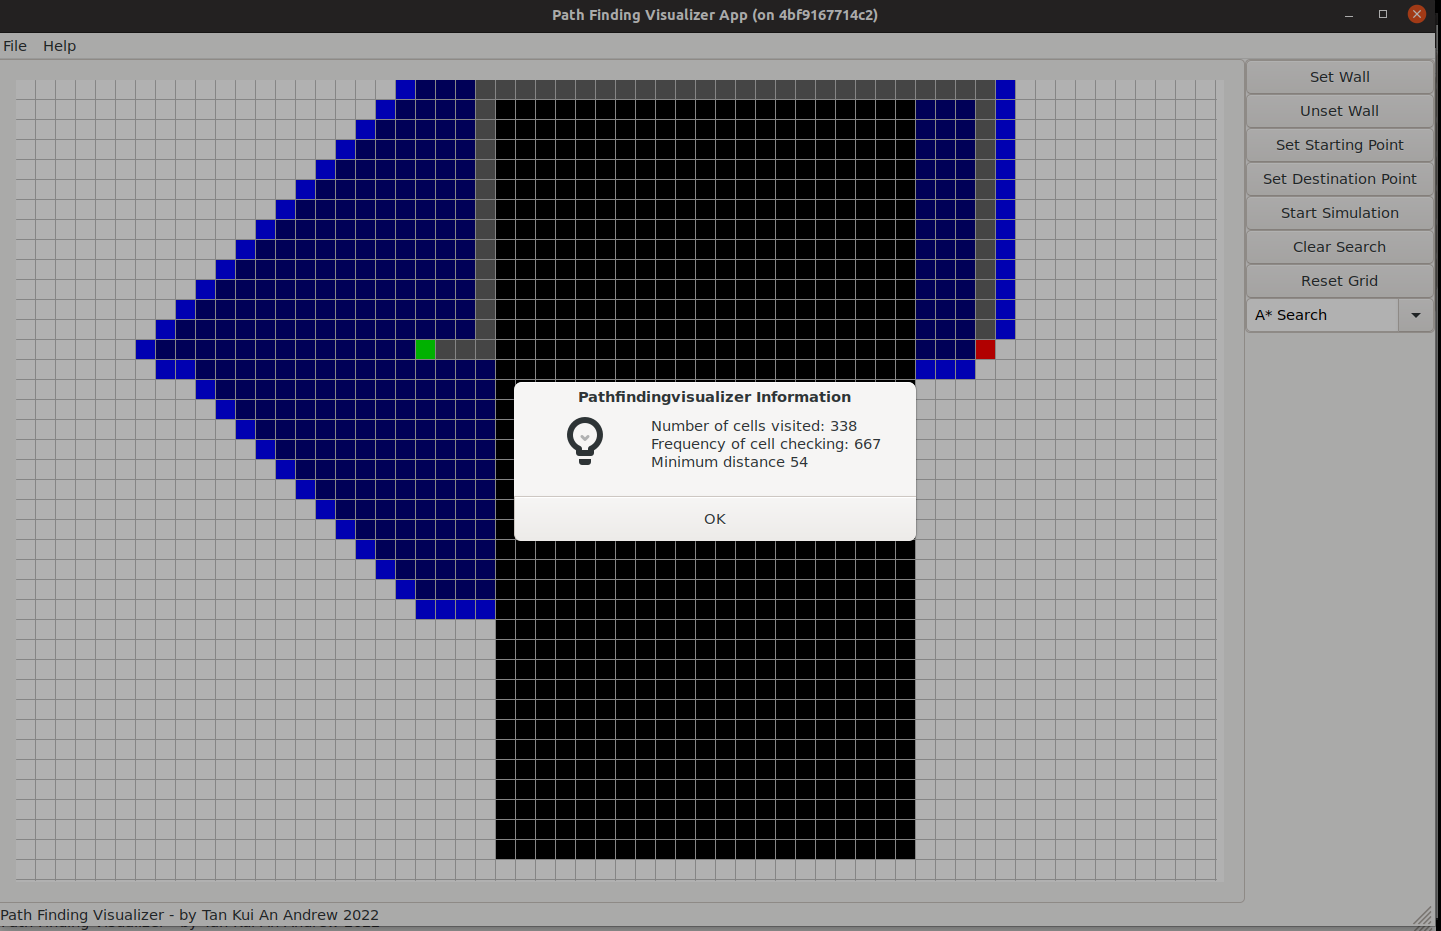
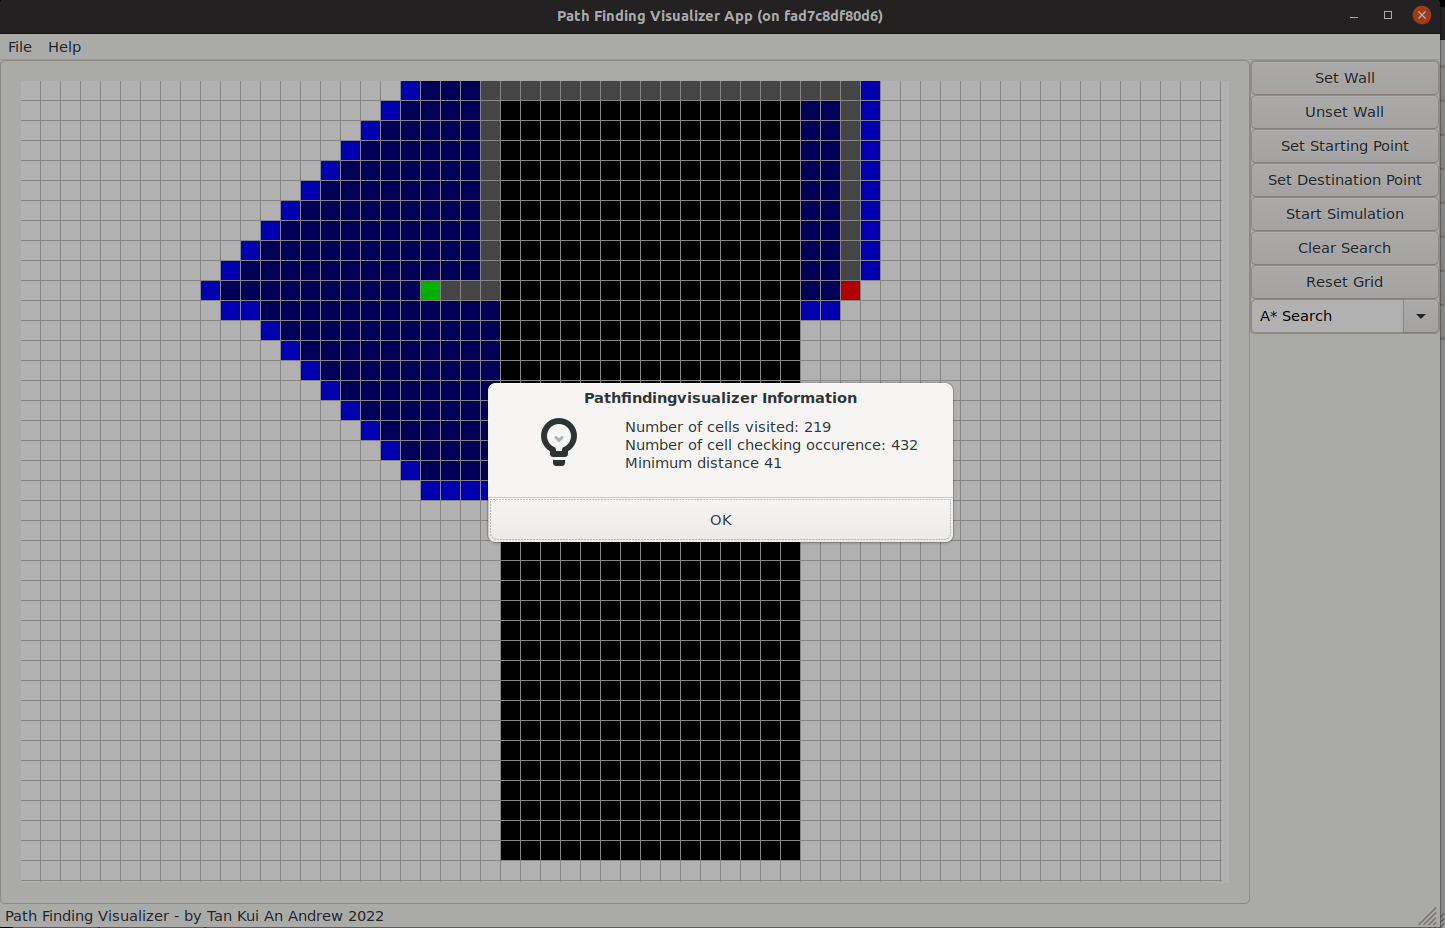
renamed frequency to occurence

Changed region(s): [[0.0, 0.0, 1.0, 1.0], [0.3747, 0.0, 0.6246, 0.0312], [0.0, 0.0312, 0.0625, 0.0625]]

diff --git a/src/pathFindingAlgorithms.cpp b/src/pathFindingAlgorithms.cpp
@@ -21,7 +21,7 @@ std::tuple<int, int, int, std::vector<std::vector<std::array<int, 2>>>> dijkstra
 
     int moves[4][2] = {{-1, 0}, {1, 0}, {0, -1}, {0, 1}};
     int numOfCellsVisited = 0;
-    int frequencyOfCellChecking = 0;
+    int numOfCellCheckingOccurrence = 0;
     bool foundTarget = false; // not used as it violates Dijkstra's Algorithm
 
     // BASE CASE
@@ -75,7 +75,7 @@ std::tuple<int, int, int, std::vector<std::vector<std::array<int, 2>>>> dijkstra
                 continue;
             }
 
-            frequencyOfCellChecking++;
+            numOfCellCheckingOccurrence++;
             gridPtr->SetCellBackgroundColour(newR, newC, wxColour(0, 0, 255)); // blue
 
             int newTravelCost = curTravelCost + 1;
@@ -105,7 +105,7 @@ std::tuple<int, int, int, std::vector<std::vector<std::array<int, 2>>>> dijkstra
     gridPtr->SetCellBackgroundColour(target[0], target[1], wxColour(255, 0, 0)); // red
     gridPtr->ForceRefresh();
 
-    return {numOfCellsVisited, frequencyOfCellChecking, minTravelCost[target[0]][target[1]], prev};
+    return {numOfCellsVisited, numOfCellCheckingOccurrence, minTravelCost[target[0]][target[1]], prev};
 }
 
 std::tuple<int, int, int, std::vector<std::vector<std::array<int, 2>>>> aStarSearch(std::array<int, 2> source, std::array<int, 2> target, int gridRow, int gridCol, MainFrame *mainFramePtr)
@@ -120,7 +120,7 @@ std::tuple<int, int, int, std::vector<std::vector<std::array<int, 2>>>> aStarSea
 
     int moves[4][2] = {{-1, 0}, {1, 0}, {0, -1}, {0, 1}};
     int numOfCellsVisited = 0;
-    int frequencyOfCellChecking = 0;
+    int numOfCellCheckingOccurrence = 0;
 
     // BASE CASE
     minTravelCost[source[0]][source[1]] = 0;
@@ -174,7 +174,7 @@ std::tuple<int, int, int, std::vector<std::vector<std::array<int, 2>>>> aStarSea
                 continue;
             }
 
-            frequencyOfCellChecking++;
+            numOfCellCheckingOccurrence++;
             gridPtr->SetCellBackgroundColour(newR, newC, wxColour(0, 0, 255)); // blue
 
             int newDistanceTravelled = distanceTravelled[curR][curC] + 1;
@@ -200,7 +200,7 @@ std::tuple<int, int, int, std::vector<std::vector<std::array<int, 2>>>> aStarSea
     gridPtr->SetCellBackgroundColour(target[0], target[1], wxColour(255, 0, 0)); // red
     gridPtr->ForceRefresh();
 
-    return {numOfCellsVisited, frequencyOfCellChecking, minTravelCost[target[0]][target[1]], prev};
+    return {numOfCellsVisited, numOfCellCheckingOccurrence, minTravelCost[target[0]][target[1]], prev};
 }
 
 int getManhattanDistance(std::array<int, 2> currentCell, std::array<int, 2> targetCell)

diff --git a/src/panels.cpp b/src/panels.cpp
@@ -220,7 +220,7 @@ void RightPanel::OnStartSimulation(wxCommandEvent &WXUNUSED(event))
     // auto result = future.get();
 
     int numOfCellsVisited = 0;
-    int frequencyOfCellChecking = 0;
+    int numOfCellCheckingOccurrence = 0;
     int shortestDistance = 0;
     std::vector<std::vector<std::array<int, 2>>> prev;
 
@@ -228,7 +228,7 @@ void RightPanel::OnStartSimulation(wxCommandEvent &WXUNUSED(event))
     {
         auto pathFindingResult = dijkstraSingleTarget(startingPoint, destinationPoint, row, col, mainFrame);
         numOfCellsVisited = std::get<0>(pathFindingResult);
-        frequencyOfCellChecking = std::get<1>(pathFindingResult);
+        numOfCellCheckingOccurrence = std::get<1>(pathFindingResult);
         shortestDistance = std::get<2>(pathFindingResult);
         prev = std::get<3>(pathFindingResult);
     } 
@@ -236,7 +236,7 @@ void RightPanel::OnStartSimulation(wxCommandEvent &WXUNUSED(event))
     {
         auto pathFindingResult = aStarSearch(startingPoint, destinationPoint, row, col, mainFrame);
         numOfCellsVisited = std::get<0>(pathFindingResult);
-        frequencyOfCellChecking = std::get<1>(pathFindingResult);
+        numOfCellCheckingOccurrence = std::get<1>(pathFindingResult);
         shortestDistance = std::get<2>(pathFindingResult);
         prev = std::get<3>(pathFindingResult);
     }
@@ -261,11 +261,11 @@ void RightPanel::OnStartSimulation(wxCommandEvent &WXUNUSED(event))
 
     if (shortestDistance == INT_MAX)
     {
-        wxLogMessage("Number of cells visited: %d\n/Frequency of cell checking: %d\n/The destination is unreachable!", frequencyOfCellChecking, numOfCellsVisited);
+        wxLogMessage("Number of cells visited: %d\n/Number of cell checking occurrence: %d\n/The destination is unreachable!", numOfCellCheckingOccurrence, numOfCellsVisited);
         return;
     }
 
-    wxLogMessage("Number of cells visited: %d\nFrequency of cell checking: %d\nMinimum distance %d", numOfCellsVisited, frequencyOfCellChecking, shortestDistance);
+    wxLogMessage("Number of cells visited: %d\nNumber of cell checking occurence: %d\nMinimum distance %d", numOfCellsVisited, numOfCellCheckingOccurrence, shortestDistance);
 }
 
 /**

diff --git a/src/pathFindingAlgorithms.h b/src/pathFindingAlgorithms.h
@@ -8,10 +8,10 @@
 #include <unordered_map>
 #include <climits>
 
-// return: numOfCellsVisited, frequencyOfCellChecking, minTravelCost, prev
+// return: numOfCellsVisited, numOfCellCheckingOccurrence, minTravelCost, prev
 std::tuple<int, int, int, std::vector<std::vector<std::array<int, 2>>>> dijkstraSingleTarget(std::array<int, 2> source, std::array<int, 2> target, int gridRow, int gridCol, MainFrame *mainFramePtr);
 
-// return: numOfCellsVisited, frequencyOfCellChecking, minTravelCost, prev
+// return: numOfCellsVisited, numOfCellCheckingOccurrence, minTravelCost, prev
 std::tuple<int, int, int, std::vector<std::vector<std::array<int, 2>>>> aStarSearch(std::array<int, 2> source, std::array<int, 2> target, int gridRow, int gridCol, MainFrame *mainFramePtr);
 
 // return: manhattan distance
